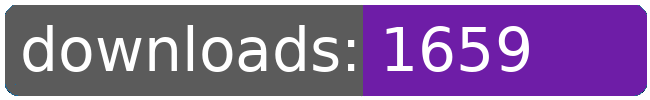
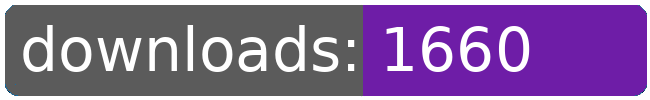
dl log written

Changed region(s): [[0.7077, 0.39, 0.8308, 0.72], [0.7077, 0.24, 0.8, 0.39]]

diff --git a/README.md b/README.md
@@ -21,8 +21,8 @@
 		<td>52</td>
 		<td>90</td>
 		<td>132</td>
-		<td>162</td>
-		<td>+ 30</td>
+		<td>163</td>
+		<td>+ 31</td>
 	</tr>
 	<tr>
 		<td>aberrant.kahet.outfitter</td>
@@ -164,8 +164,8 @@
 		<td></td>
 		<td></td>
 		<td></td>
-		<td>1659</td>
-		<td>343</td>
+		<td>1660</td>
+		<td>344</td>
 	</tr>
 </table>
 </sub></sup>
@@ -256,8 +256,8 @@
 		<td>52</td>
 		<td>90</td>
 		<td>132</td>
-		<td>162</td>
-		<td>+ 30</td>
+		<td>163</td>
+		<td>+ 31</td>
 	</tr>
 	<tr>
 		<td>tributequarg</td>
@@ -333,8 +333,8 @@
 		<td></td>
 		<td></td>
 		<td></td>
-		<td>1659</td>
-		<td>343</td>
+		<td>1660</td>
+		<td>344</td>
 	</tr>
 </table>
 </sub></sup>
